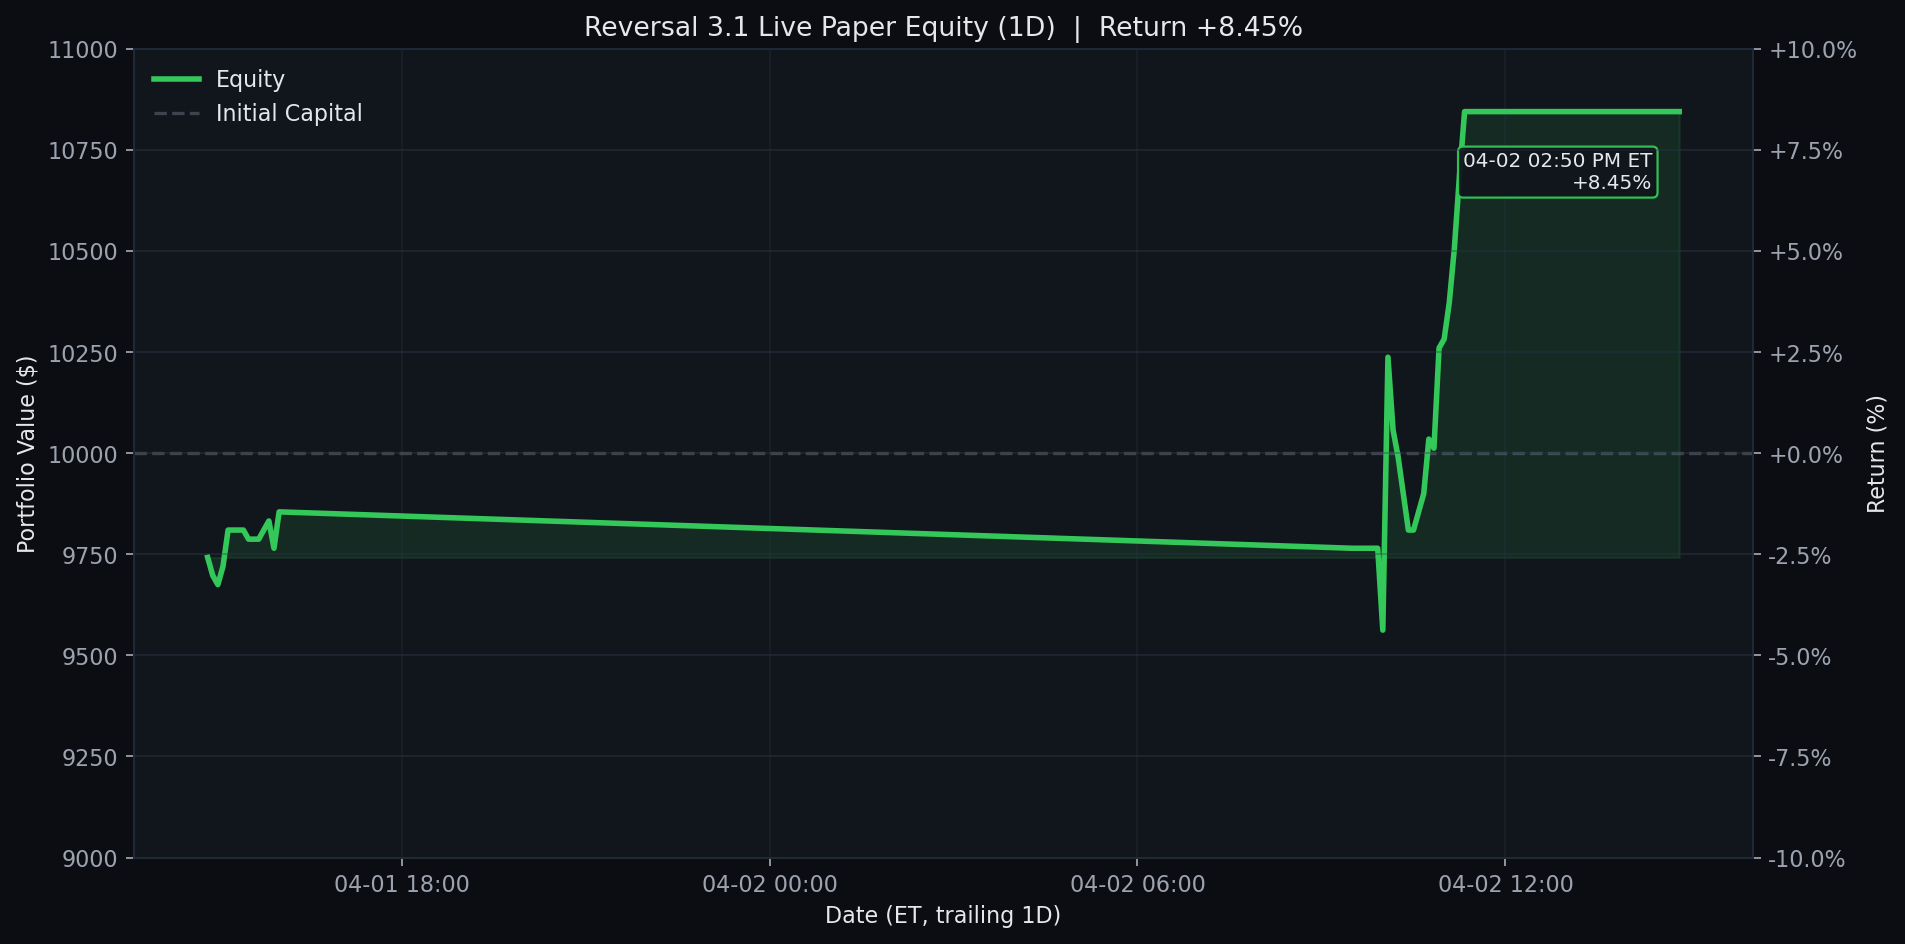
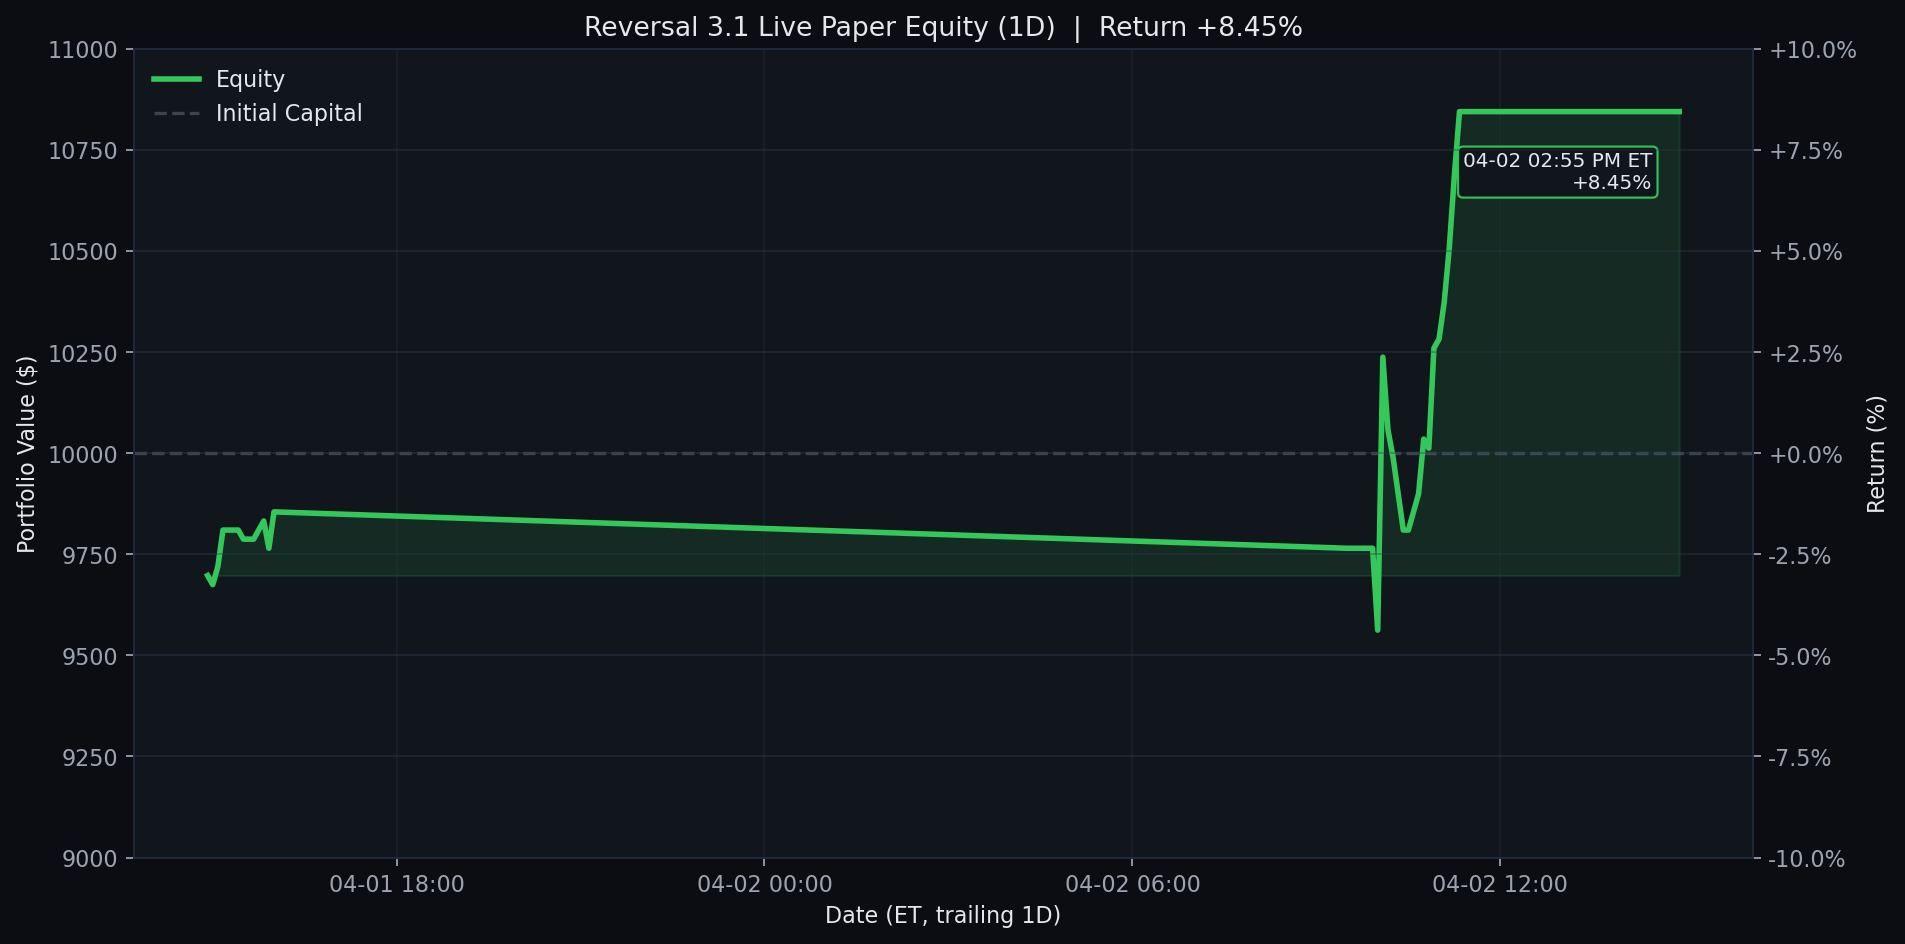
Update Reversal 3.1 live paper test 2026-04-02 14:55 ET

diff --git a/results/reversal_3_1_live/README.md b/results/reversal_3_1_live/README.md
@@ -1,6 +1,6 @@
 # Reversal 3.1 Live Paper Test
 
-Last updated (ET): `2026-04-02 14:50:05 EDT`
+Last updated (ET): `2026-04-02 14:55:05 EDT`
 Last processed slot: `entry_1500`
 
 ## Active Configuration
@@ -29,7 +29,7 @@ Last processed slot: `entry_1500`
 
 ```text
 ticker    contract_symbol entry_trade_date  business_days_held  entry_option_price  current_option_price  entry_spot  current_spot  unrealized_pnl  unrealized_return_pct  success_rate  matched_signals  current_drop_pct  entry_iv_pct  current_iv_pct  rolling_sigma_20d_pct
-   WDC WDC260501C00295000       2026-04-02                   0               27.42                 27.42      294.77        294.77             0.0                    0.0         97.22               36              0.99         81.84           81.84                  91.06
+   WDC WDC260501C00295000       2026-04-02                   0               27.42                 27.42      294.77        294.87             0.0                    0.0         97.22               36              0.99         81.84            81.9                  91.06
 ```
 
 ## Today's Closed Trades (2026-04-02)
@@ -43,24 +43,25 @@ ticker     contract_symbol entry_trade_date_et exit_trade_date_et  entry_option_
 
 ```text
 ticker  success_rate_%  matched_signals  current_drop_%  target_rebound_$  target_price  rolling_sigma_20d_%  call_candidate
-   WDC           97.22               36            0.99              2.07        296.84                91.06            True
-  ABNB           92.68               41            0.59              0.52        124.97                36.75            True
-  ASML           91.67               12            3.09             29.41       1347.16                52.01            True
-  ORLY           90.24               41            0.53              0.34         91.95                22.81            True
-  DXCM           90.00               40            1.07              0.47         62.17                31.67            True
-  CDNS           89.47               38            1.32              2.58        279.08                26.25            True
-  SNPS           89.13               46            0.53              1.48        396.11                35.88            True
-   MAR           88.89               36            0.71              1.66        332.75                28.45            True
-  GILD           88.46               26            0.66              0.64        140.02                21.47            True
-  FAST           86.36               22            1.38              0.45         46.44                21.97            True
+   WDC           97.22               36            0.96              2.00        296.87                91.06            True
+  ASML           91.67               12            3.18             30.28       1346.78                52.01            True
+  CDNS           90.48               42            0.96              1.88        279.38                26.25            True
+  DXCM           90.48               42            0.96              0.42         62.19                31.67            True
+   MAR           89.19               37            0.61              1.43        332.85                28.45            True
+  GILD           88.46               26            0.68              0.66        140.02                21.47            True
+  FAST           86.96               23            1.30              0.42         46.45                21.97            True
+  KLAC           85.71               35            0.94              9.99       1515.56                56.48            True
    WBD           85.71               35            0.53              0.10         27.45                11.93            True
-   CSX           85.71               21            0.83              0.24         41.34                27.84            True
+   CSX           85.00               20            0.89              0.26         41.33                27.84            True
+ GOOGL           84.21               38            0.64              1.33        296.82                35.66            True
+  AMAT           83.87               31            1.42              3.51        352.30                59.65            True
 ```
 
 ## Recent Events
 
 ```text
                     timestamp_et        slot   event_type                                                                                                                                                                           detail
+2026-04-02T14:55:05.878211-04:00  entry_1500 slot_skipped                                                                                                                                                  {"reason": "already_processed"}
 2026-04-02T14:50:05.884978-04:00  entry_1500        entry {"allocated_cash": 2742.5, "contract_symbol": "WDC260501C00295000", "contracts": 1, "entry_option_price": 27.425, "matched_signals": 36, "success_rate": 97.22, "ticker": "WDC"}
 2026-04-02T14:40:05.911687-04:00 manage_1430 slot_skipped                                                                                                                                                  {"reason": "already_processed"}
 2026-04-02T14:35:05.892322-04:00 manage_1430 slot_skipped                                                                                                                                                  {"reason": "already_processed"}
@@ -70,7 +71,6 @@ ticker  success_rate_%  matched_signals  current_drop_%  target_rebound_$  targe
 2026-04-02T14:05:05.889867-04:00 manage_1400 slot_skipped                                                                                                                                                  {"reason": "already_processed"}
 2026-04-02T14:00:05.896681-04:00 manage_1400 slot_skipped                                                                                                                                                  {"reason": "already_processed"}
 2026-04-02T13:55:05.905247-04:00 manage_1400 slot_skipped                                                                                                                                                  {"reason": "already_processed"}
-2026-04-02T13:40:05.899103-04:00 manage_1330 slot_skipped                                                                                                                                                  {"reason": "already_processed"}
 ```
 
 ## Equity Curves

diff --git a/README.md b/README.md
@@ -3,7 +3,7 @@
 <!-- reversal-3.1-live:start -->
 ## Reversal 3.1 Live Paper Test
 
-- Last updated (ET): `2026-04-02 14:50:05 EDT`
+- Last updated (ET): `2026-04-02 14:55:05 EDT`
 - Equity: `$10,845.00` | Realized: `$845.00` | Unrealized: `$0.00` | Open positions: `1`
 - Today closed trades: `1`
 - Current slot: `entry_1500`
